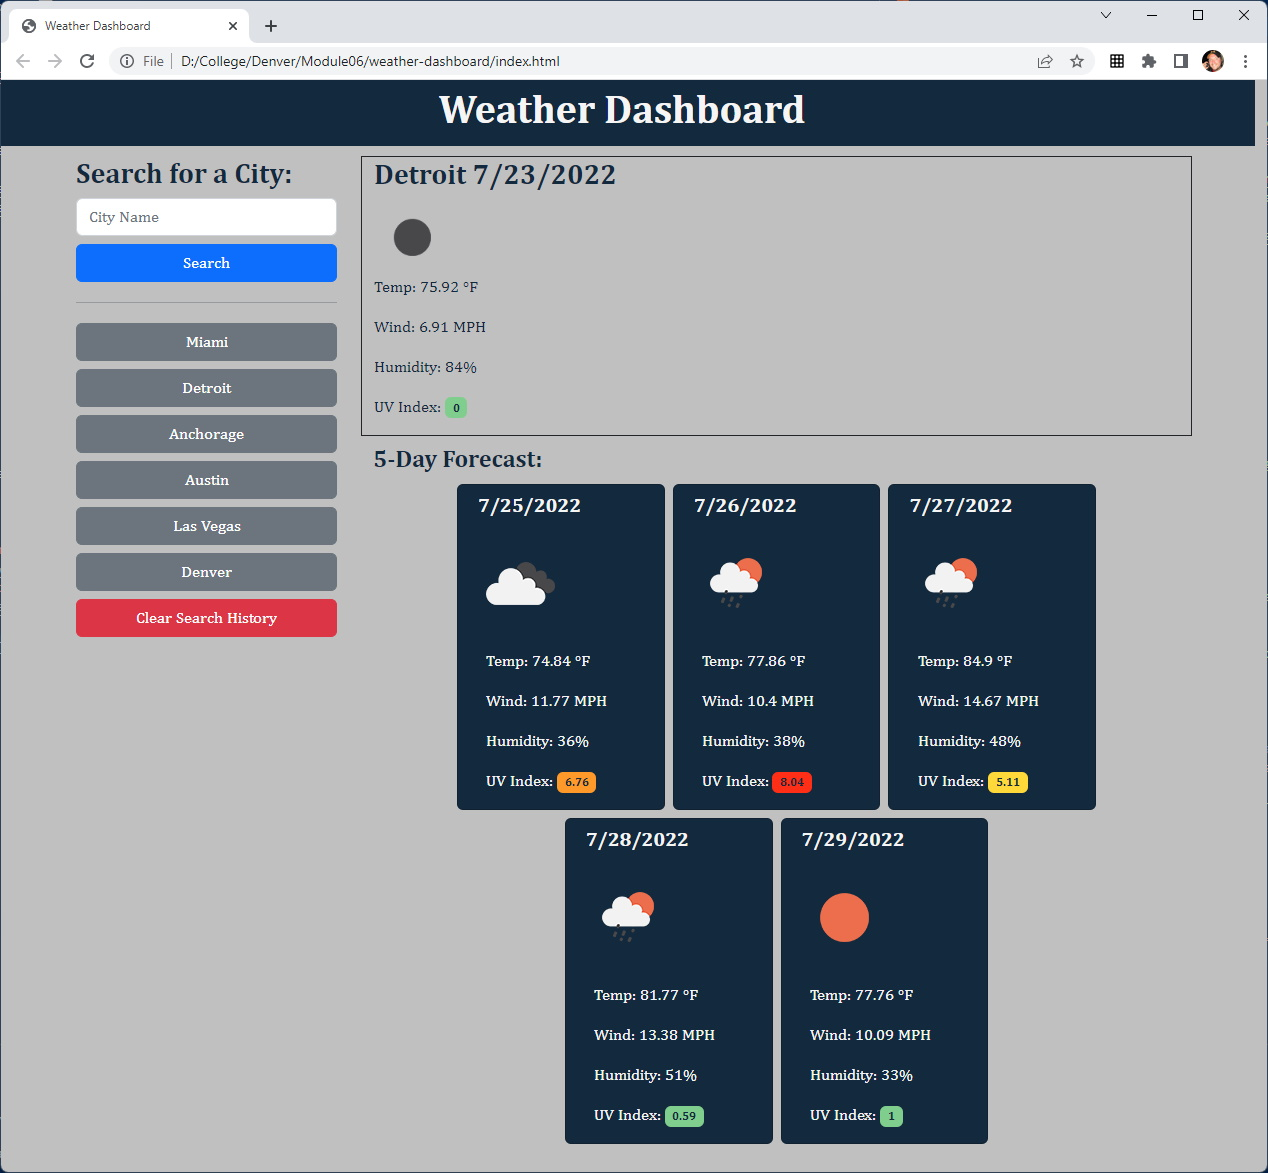
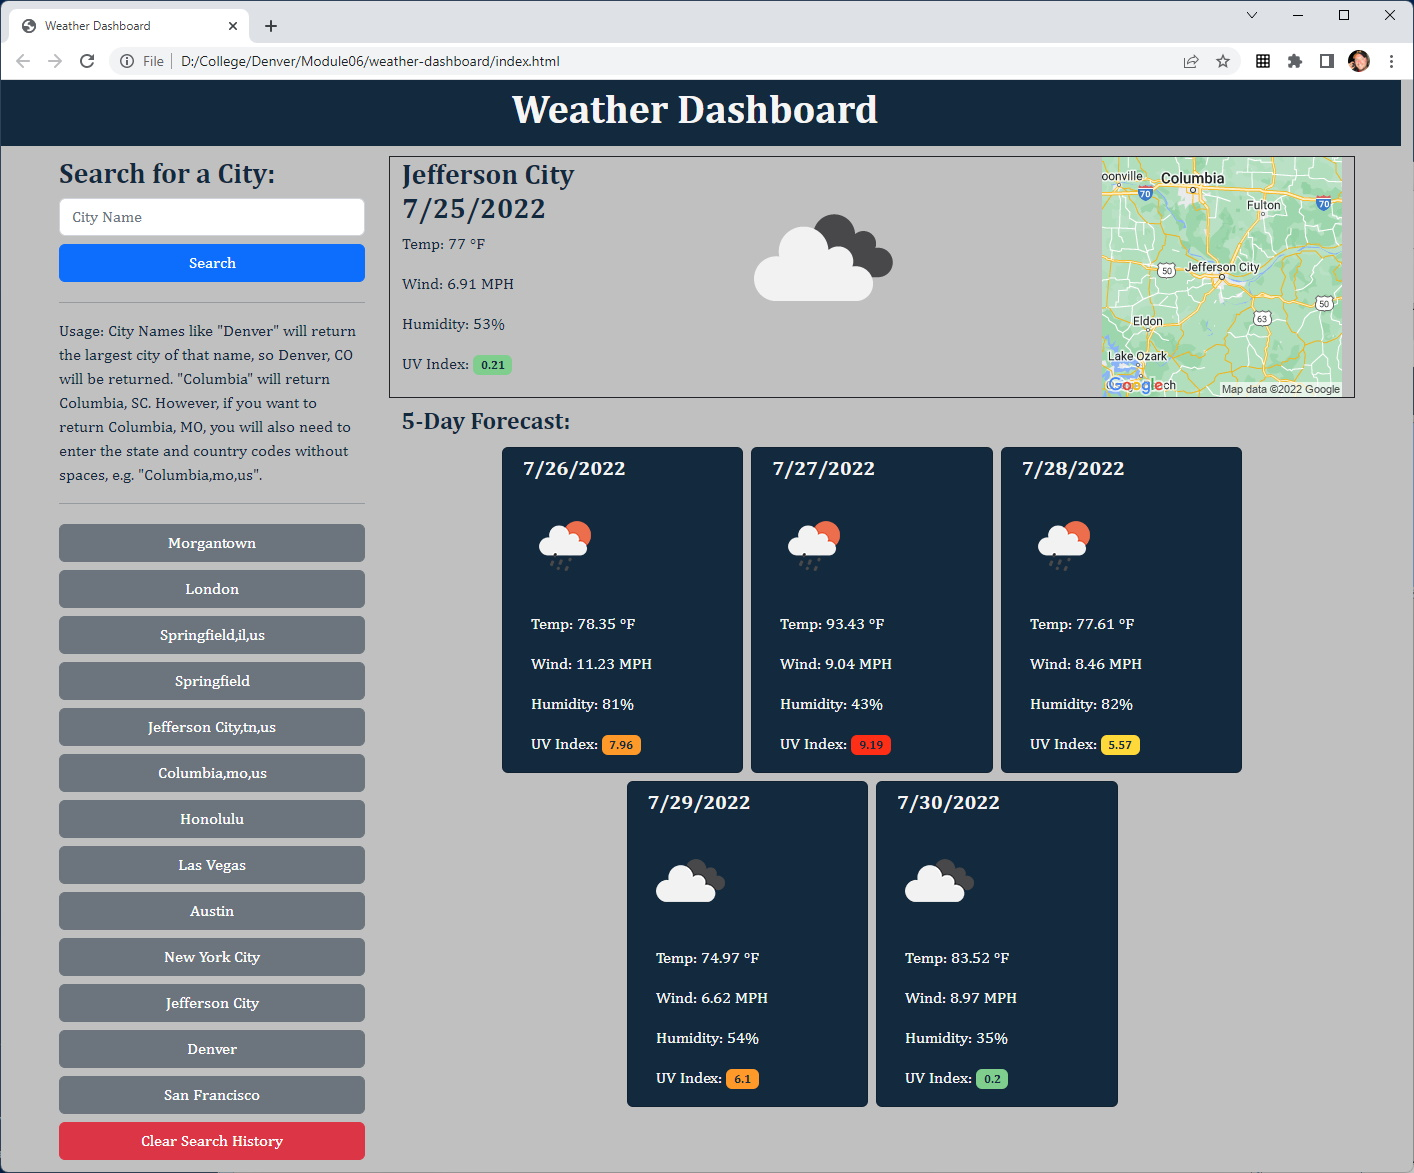
Added instructions to index.html

diff --git a/index.html b/index.html
@@ -35,7 +35,10 @@
           </form>
 
           <hr>
-
+          Usage: City Names like "Denver" will return the largest city of that name, so Denver, CO will be returned.
+          "Columbia" will return Columbia, SC. However, if you want to return Columbia, MO, you will also need to enter
+          the state and country codes without spaces, e.g. "Columbia,mo,us".
+          <hr>
           <!-- List of buttons of past searches -->
           <div id="previousSearches" class="form-group"></div>
 
